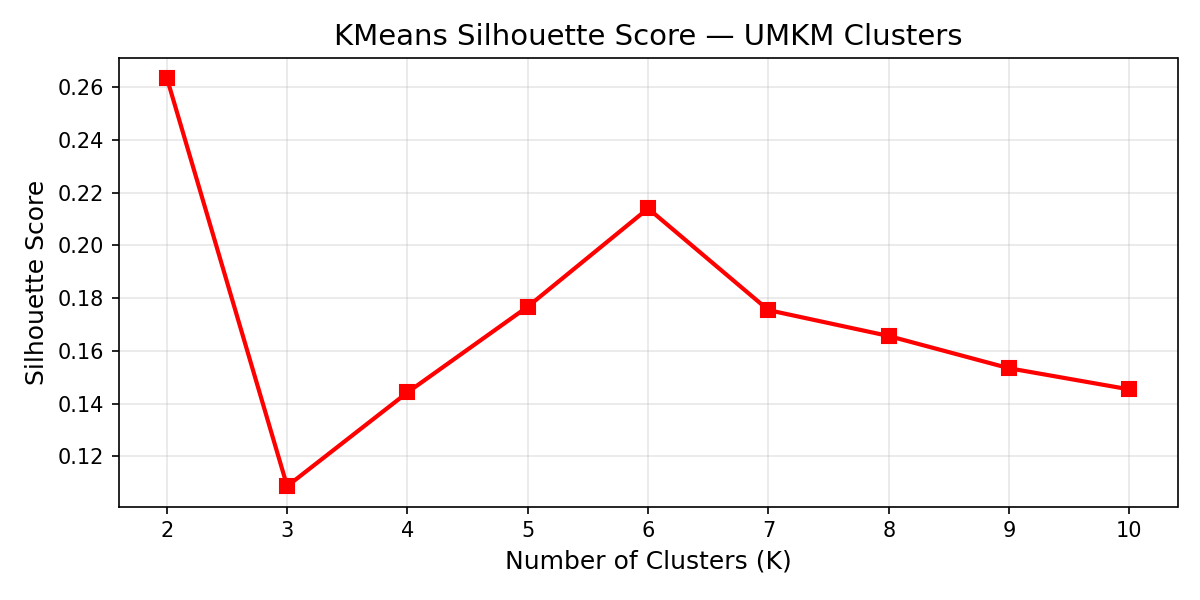
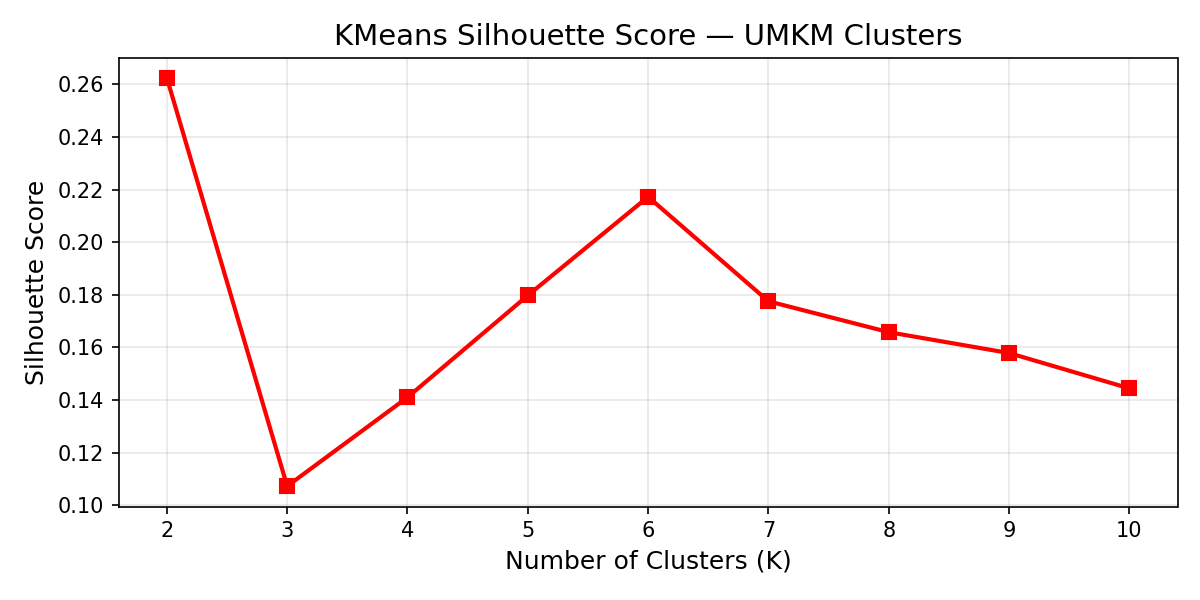
pembenahan ML part 1

diff --git a/app/Console/Commands/ImportMlCreativeWorkers.php b/app/Console/Commands/ImportMlCreativeWorkers.php
@@ -1,0 +1,106 @@
+<?php
+
+namespace App\Console\Commands;
+
+use App\Models\User;
+use Illuminate\Console\Command;
+use Illuminate\Support\Facades\Hash;
+
+class ImportMlCreativeWorkers extends Command
+{
+    /**
+     * Nama perintah yang akan dijalankan di terminal.
+     */
+    protected $signature = 'app:import-ml-cw';
+
+    /**
+     * Deskripsi perintah.
+     */
+    protected $description = 'Impor seluruh 5.000 Creative Workers dari dataset ML ke database MongoDB';
+
+    public function handle()
+    {
+        $path = base_path('ml-service/data/cw_dataset.csv');
+        
+        if (!file_exists($path)) {
+            $this->error("File dataset tidak ditemukan di: $path");
+            return 1;
+        }
+
+        $file = fopen($path, 'r');
+        $header = fgetcsv($file); // Melewati baris pertama (header)
+
+        if (!$header) {
+            $this->error("Gagal membaca header CSV.");
+            fclose($file);
+            return 1;
+        }
+
+        $this->info("Memulai proses impor data kreator dari dataset...");
+        
+        $count = 0;
+        $batch = [];
+        $batchSize = 500;
+        
+        // Pre-hash password agar tidak dihitung ulang 5.000 kali (sangat lambat)
+        $defaultPassword = Hash::make('password123');
+        
+        // Ambil semua email yang sudah ada untuk menghindari duplikat tanpa query satu-satu
+        $existingEmails = User::where('type', 'creative_worker')->pluck('email')->toArray();
+        $existingEmails = array_flip($existingEmails); // Untuk lookup O(1)
+
+        $bar = $this->output->createProgressBar();
+        $bar->start();
+
+        while (($row = fgetcsv($file)) !== false) {
+            if (count($row) < 22) continue;
+
+            $email = $row[2];
+            
+            // Skip jika email sudah ada di DB
+            if (isset($existingEmails[$email])) {
+                $bar->advance();
+                continue;
+            }
+
+            $batch[] = [
+                'name' => $row[1],
+                'email' => $email,
+                'password' => $defaultPassword,
+                'type' => 'creative_worker',
+                'creative_category' => $row[5],
+                'skills' => array_values(array_filter(array_map('trim', explode(',', $row[7])))),
+                'city' => $row[10],
+                'bio' => $row[6],
+                'onboarding_completed' => true,
+                'profile_verified' => ((int)$row[21] === 1),
+                'status' => ((int)$row[20] === 1 ? 'active' : 'inactive'),
+                'created_at' => now(),
+                'updated_at' => now(),
+            ];
+
+            if (count($batch) >= $batchSize) {
+                User::insert($batch);
+                $count += count($batch);
+                $batch = [];
+                gc_collect_cycles();
+            }
+
+            $bar->advance();
+        }
+
+        // Insert sisa batch
+        if (count($batch) > 0) {
+            User::insert($batch);
+            $count += count($batch);
+        }
+
+        fclose($file);
+        $bar->finish();
+        
+        $this->newLine();
+        $this->info("Berhasil mengimpor $count data Creative Workers ke database MongoDB.");
+        
+        return 0;
+    }
+}

diff --git a/ml-service/preprocessing_umkm.py b/ml-service/preprocessing_umkm.py
@@ -235,11 +235,13 @@ class UMKMPreprocessor:
             if not (c in seen or seen.add(c))
         ]
 
-        X = df[feature_cols].fillna(0).values
+        X = df[feature_cols].fillna(0)
 
         if fit:
             self.scaler = StandardScaler()
             X_scaled = self.scaler.fit_transform(X)
+            # Ensure feature names are stored even if sklearn version is old
+            self.scaler.feature_names_in_ = np.array(feature_cols)
             joblib.dump(self.scaler, SCALER_UMKM_PATH)
             logger.info(f"[UMKM] Scaler fitted & saved → {SCALER_UMKM_PATH}")
         else:

diff --git a/ml-service/recommend.py b/ml-service/recommend.py
@@ -229,7 +229,7 @@ class Recommender:
         query = self.get_skill_query(cluster_id)
 
         # 3. Cosine similarity
-        recs, cluster_id = self._score_and_filter(
+        cluster_id, recs = self._score_and_filter(
             query=query,
             top_n=top_n,
             min_budget=min_budget,

diff --git a/app/Models/User.php b/app/Models/User.php
@@ -52,7 +52,6 @@ class User extends Authenticatable implements JWTSubject  // implements JWTSubje
         return [
             'email_verified_at' => 'datetime',
             'password' => 'hashed',
-            'skills' => 'array',
             'onboarding_completed' => 'boolean',
         ];
     }